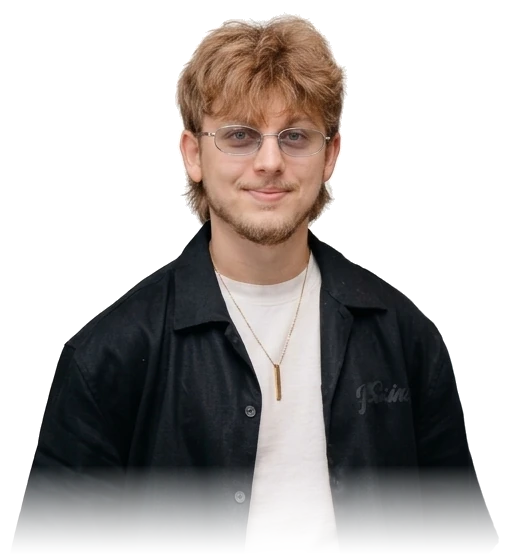
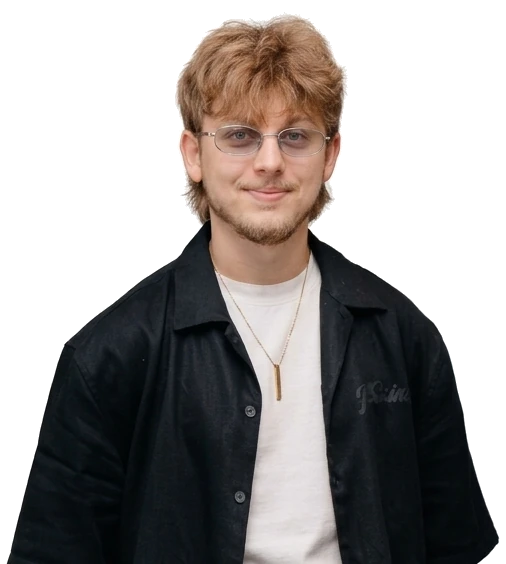
Світлий ленд: анімована крива, пунктир після $300K, заголовок у два рядки
Крива малює себе зліва направо, за нею по черзі спалахують точки $0, $100K,
$300K і $600K. Ділянка після $300K іде пунктиром — це вже не досягнуте, а
план вийти на $600K, — і сама точка $300K пульсує як узята вершина.

Витирання зроблено clip-path прямо на лініях. Першу версію я зібрав через
<mask> з анімованим прямокутником усередині — у Chrome маска не
перемальовується, коли її вміст анімують, і графік зникав повністю.

Саша більше не розчиняється внизу: кадр обрізаний рівно, як у макеті. Його
посунуто так, щоб зліва лишалось місце під точку $0, а справа — під $100K,
і щоб голова не заходила під заголовок. Нуль тепер підписаний «$0».

Заголовок знову у два рядки з жорстким переносом, як на оригінальному ленді.

diff --git a/public/pre-reg-form-d.html b/public/pre-reg-form-d.html
@@ -32,12 +32,12 @@
 
     <div class="hero-main">
       <p class="qual" data-p18n="qual">Премиальная программа<br>по масштабированию инфобизнесов</p>
-      <h1 class="d" data-fit-lines="3" data-fit-max="44" data-fit-min="22"><span data-p18n="h1a">Сделай свой запуск в 2027 – </span><span class="gold" data-p18n="h1b">рекордным</span> <span class="gold" data-p18n="h1b2">и подготовься</span><span data-p18n="h1c"> к новым реалиям рынка</span></h1>
+      <h1 class="d" data-fit-lines="2" data-fit-max="28" data-fit-min="14"><span data-p18n="h1a">Сделай свой запуск в 2027 – </span><span class="gold" data-p18n="h1b">рекордным</span><br><span class="gold" data-p18n="h1b2">и подготовься</span><span data-p18n="h1c"> к новым реалиям рынка</span></h1>
     </div>
 
-    <!-- Герой: бюст Саші зліва, крива зростання виручки від запуску до запуску — за ним.
-         Графік лежить шаром нижче фото, тому вся ліва, низька частина кривої ховається
-         за його плечима й грудьми, а підписи сум стоять правіше, уже на чистому полі. -->
+    <!-- Герой: Саша зліва, за ним крива зростання виручки від запуску до запуску.
+         До $300K лінія суцільна — це вже досягнуте, далі пунктир: план вийти на $600K.
+         Анімацію малювання й появу точок тримає preregd.css, скриптів тут немає. -->
     <div class="hero-pic" aria-hidden="true">
       <svg class="hero-chart" viewBox="0 0 1000 620" preserveAspectRatio="xMidYMax meet" xmlns="http://www.w3.org/2000/svg">
         <defs>
@@ -50,22 +50,24 @@
             <stop offset="1" stop-color="#0071E3" stop-opacity="0"/>
           </linearGradient>
         </defs>
-        <path d="M0 560C10.0 557.5 36.7 544.0 60 545C83.3 546.0 112.5 574.3 140 566C167.5 557.7 197.5 502.3 225 495C252.5 487.7 278.3 531.2 305 522C331.7 512.8 358.3 448.7 385 440C411.7 431.3 439.2 476.7 465 470C490.8 463.3 515.0 415.3 540 400C565.0 384.7 590.8 377.2 615 378C639.2 378.8 661.7 421.0 685 405C708.3 389.0 732.2 297.8 755 282C777.8 266.2 797.0 337.3 822 310C847.0 282.7 882.8 155.0 905 118C927.2 81.0 939.2 99.7 955 88C970.8 76.3 992.5 54.7 1000 48L1000 620L0 620Z" fill="url(#chartArea)"/>
-        <path d="M0 560C10.0 557.5 36.7 544.0 60 545C83.3 546.0 112.5 574.3 140 566C167.5 557.7 197.5 502.3 225 495C252.5 487.7 278.3 531.2 305 522C331.7 512.8 358.3 448.7 385 440C411.7 431.3 439.2 476.7 465 470C490.8 463.3 515.0 415.3 540 400C565.0 384.7 590.8 377.2 615 378C639.2 378.8 661.7 421.0 685 405C708.3 389.0 732.2 297.8 755 282C777.8 266.2 797.0 337.3 822 310C847.0 282.7 882.8 155.0 905 118C927.2 81.0 939.2 99.7 955 88C970.8 76.3 992.5 54.7 1000 48" fill="none" stroke="url(#chartLine)" stroke-width="5" stroke-linecap="round" stroke-linejoin="round"/>
+        <path class="ch-area" d="M0 578C8.3 575.0 28.3 558.7 50 560C71.7 561.3 101.7 592.3 130 586C158.3 579.7 190.0 528.0 220 522C250.0 516.0 280.0 558.3 310 550C340.0 541.7 369.2 480.0 400 472C430.8 464.0 466.7 508.7 495 502C523.3 495.3 545.0 449.8 570 432C595.0 414.2 623.3 397.0 645 395C666.7 393.0 680.8 438.3 700 420C719.2 401.7 739.2 303.0 760 285L760 620L0 620Z" fill="url(#chartArea)"/>
+        <path class="ch-done" d="M0 578C8.3 575.0 28.3 558.7 50 560C71.7 561.3 101.7 592.3 130 586C158.3 579.7 190.0 528.0 220 522C250.0 516.0 280.0 558.3 310 550C340.0 541.7 369.2 480.0 400 472C430.8 464.0 466.7 508.7 495 502C523.3 495.3 545.0 449.8 570 432C595.0 414.2 623.3 397.0 645 395C666.7 393.0 680.8 438.3 700 420C719.2 401.7 739.2 303.0 760 285" fill="none" stroke="url(#chartLine)" stroke-width="5" stroke-linecap="round" stroke-linejoin="round"/>
+        <path class="ch-plan" d="M760 285C780.8 267.0 800.8 339.8 825 312C849.2 284.2 883.3 155.3 905 118C926.7 80.7 939.2 99.7 955 88C970.8 76.3 992.5 54.7 1000 48" fill="none" stroke="url(#chartLine)" stroke-width="5" stroke-linecap="round" stroke-dasharray="16 18"/>
+        <circle class="ch-pulse" cx="760" cy="285" r="9" fill="#0071E3"/>
         <g fill="#FFFFFF" stroke="url(#chartLine)" stroke-width="5">
-          <circle cx="60" cy="545" r="9"/>
-          <circle cx="615" cy="378" r="9"/>
-          <circle cx="755" cy="282" r="9"/>
-          <circle cx="905" cy="118" r="12"/>
+          <circle class="ch-dot d0" cx="50" cy="560" r="9"/>
+          <circle class="ch-dot d1" cx="645" cy="395" r="9"/>
+          <circle class="ch-dot d2" cx="760" cy="285" r="9"/>
+          <circle class="ch-dot d3" cx="905" cy="118" r="12"/>
         </g>
         <g class="hero-chart-n" fill="#1D1D1F">
-          <text x="60" y="602" text-anchor="middle">0</text>
-          <text x="615" y="336" text-anchor="middle">$100K</text>
-          <text x="755" y="240" text-anchor="middle">$300K</text>
-          <text x="905" y="76" text-anchor="middle">$600K</text>
+          <text class="ch-n d0" x="50" y="606" text-anchor="middle">$0</text>
+          <text class="ch-n d1" x="645" y="353" text-anchor="middle">$100K</text>
+          <text class="ch-n d2" x="760" y="243" text-anchor="middle">$300K</text>
+          <text class="ch-n d3" x="905" y="76" text-anchor="middle">$600K</text>
         </g>
       </svg>
-      <img src="assets/img/sasha-hero.webp" alt="" width="506" height="557" decoding="async" fetchpriority="high">
+      <img src="assets/img/sasha-hero.webp" alt="" width="506" height="564" decoding="async" fetchpriority="high">
     </div>
 
     <section class="offer" aria-label="Бонус предзаписи">

diff --git a/public/pre-reg-form-d/ua.html b/public/pre-reg-form-d/ua.html
@@ -32,12 +32,12 @@
 
     <div class="hero-main">
       <p class="qual" data-p18n="qual">Преміальна програма<br>з масштабування інфобізнесів</p>
-      <h1 class="d" data-fit-lines="3" data-fit-max="44" data-fit-min="22"><span data-p18n="h1a">Зроби свій запуск у 2027 – </span><span class="gold" data-p18n="h1b">рекордним</span> <span class="gold" data-p18n="h1b2">і підготуйся</span><span data-p18n="h1c"> до нових реалій ринку</span></h1>
+      <h1 class="d" data-fit-lines="2" data-fit-max="28" data-fit-min="14"><span data-p18n="h1a">Зроби свій запуск у 2027 – </span><span class="gold" data-p18n="h1b">рекордним</span><br><span class="gold" data-p18n="h1b2">і підготуйся</span><span data-p18n="h1c"> до нових реалій ринку</span></h1>
     </div>
 
-    <!-- Герой: бюст Саші зліва, крива зростання виручки від запуску до запуску — за ним.
-         Графік лежить шаром нижче фото, тому вся ліва, низька частина кривої ховається
-         за його плечима й грудьми, а підписи сум стоять правіше, уже на чистому полі. -->
+    <!-- Герой: Саша зліва, за ним крива зростання виручки від запуску до запуску.
+         До $300K лінія суцільна — це вже досягнуте, далі пунктир: план вийти на $600K.
+         Анімацію малювання й появу точок тримає preregd.css, скриптів тут немає. -->
     <div class="hero-pic" aria-hidden="true">
       <svg class="hero-chart" viewBox="0 0 1000 620" preserveAspectRatio="xMidYMax meet" xmlns="http://www.w3.org/2000/svg">
         <defs>
@@ -50,22 +50,24 @@
             <stop offset="1" stop-color="#0071E3" stop-opacity="0"/>
           </linearGradient>
         </defs>
-        <path d="M0 560C10.0 557.5 36.7 544.0 60 545C83.3 546.0 112.5 574.3 140 566C167.5 557.7 197.5 502.3 225 495C252.5 487.7 278.3 531.2 305 522C331.7 512.8 358.3 448.7 385 440C411.7 431.3 439.2 476.7 465 470C490.8 463.3 515.0 415.3 540 400C565.0 384.7 590.8 377.2 615 378C639.2 378.8 661.7 421.0 685 405C708.3 389.0 732.2 297.8 755 282C777.8 266.2 797.0 337.3 822 310C847.0 282.7 882.8 155.0 905 118C927.2 81.0 939.2 99.7 955 88C970.8 76.3 992.5 54.7 1000 48L1000 620L0 620Z" fill="url(#chartArea)"/>
-        <path d="M0 560C10.0 557.5 36.7 544.0 60 545C83.3 546.0 112.5 574.3 140 566C167.5 557.7 197.5 502.3 225 495C252.5 487.7 278.3 531.2 305 522C331.7 512.8 358.3 448.7 385 440C411.7 431.3 439.2 476.7 465 470C490.8 463.3 515.0 415.3 540 400C565.0 384.7 590.8 377.2 615 378C639.2 378.8 661.7 421.0 685 405C708.3 389.0 732.2 297.8 755 282C777.8 266.2 797.0 337.3 822 310C847.0 282.7 882.8 155.0 905 118C927.2 81.0 939.2 99.7 955 88C970.8 76.3 992.5 54.7 1000 48" fill="none" stroke="url(#chartLine)" stroke-width="5" stroke-linecap="round" stroke-linejoin="round"/>
+        <path class="ch-area" d="M0 578C8.3 575.0 28.3 558.7 50 560C71.7 561.3 101.7 592.3 130 586C158.3 579.7 190.0 528.0 220 522C250.0 516.0 280.0 558.3 310 550C340.0 541.7 369.2 480.0 400 472C430.8 464.0 466.7 508.7 495 502C523.3 495.3 545.0 449.8 570 432C595.0 414.2 623.3 397.0 645 395C666.7 393.0 680.8 438.3 700 420C719.2 401.7 739.2 303.0 760 285L760 620L0 620Z" fill="url(#chartArea)"/>
+        <path class="ch-done" d="M0 578C8.3 575.0 28.3 558.7 50 560C71.7 561.3 101.7 592.3 130 586C158.3 579.7 190.0 528.0 220 522C250.0 516.0 280.0 558.3 310 550C340.0 541.7 369.2 480.0 400 472C430.8 464.0 466.7 508.7 495 502C523.3 495.3 545.0 449.8 570 432C595.0 414.2 623.3 397.0 645 395C666.7 393.0 680.8 438.3 700 420C719.2 401.7 739.2 303.0 760 285" fill="none" stroke="url(#chartLine)" stroke-width="5" stroke-linecap="round" stroke-linejoin="round"/>
+        <path class="ch-plan" d="M760 285C780.8 267.0 800.8 339.8 825 312C849.2 284.2 883.3 155.3 905 118C926.7 80.7 939.2 99.7 955 88C970.8 76.3 992.5 54.7 1000 48" fill="none" stroke="url(#chartLine)" stroke-width="5" stroke-linecap="round" stroke-dasharray="16 18"/>
+        <circle class="ch-pulse" cx="760" cy="285" r="9" fill="#0071E3"/>
         <g fill="#FFFFFF" stroke="url(#chartLine)" stroke-width="5">
-          <circle cx="60" cy="545" r="9"/>
-          <circle cx="615" cy="378" r="9"/>
-          <circle cx="755" cy="282" r="9"/>
-          <circle cx="905" cy="118" r="12"/>
+          <circle class="ch-dot d0" cx="50" cy="560" r="9"/>
+          <circle class="ch-dot d1" cx="645" cy="395" r="9"/>
+          <circle class="ch-dot d2" cx="760" cy="285" r="9"/>
+          <circle class="ch-dot d3" cx="905" cy="118" r="12"/>
         </g>
         <g class="hero-chart-n" fill="#1D1D1F">
-          <text x="60" y="602" text-anchor="middle">0</text>
-          <text x="615" y="336" text-anchor="middle">$100K</text>
-          <text x="755" y="240" text-anchor="middle">$300K</text>
-          <text x="905" y="76" text-anchor="middle">$600K</text>
+          <text class="ch-n d0" x="50" y="606" text-anchor="middle">$0</text>
+          <text class="ch-n d1" x="645" y="353" text-anchor="middle">$100K</text>
+          <text class="ch-n d2" x="760" y="243" text-anchor="middle">$300K</text>
+          <text class="ch-n d3" x="905" y="76" text-anchor="middle">$600K</text>
         </g>
       </svg>
-      <img src="assets/img/sasha-hero.webp" alt="" width="506" height="557" decoding="async" fetchpriority="high">
+      <img src="assets/img/sasha-hero.webp" alt="" width="506" height="564" decoding="async" fetchpriority="high">
     </div>
 
     <section class="offer" aria-label="Бонус передзапису">

diff --git a/public/preregd.css b/public/preregd.css
@@ -108,7 +108,34 @@ html.apple .prereg h1{
 html.apple .hero-pic{position:relative;margin:10px 0 0;aspect-ratio:1000/620}
 html.apple .hero-chart{position:absolute;inset:0;width:100%;height:100%}
 html.apple .hero-chart-n{font-family:var(--sf);font-weight:600;font-size:36px;letter-spacing:-0.02em}
-html.apple .hero-pic img{position:absolute;left:1%;bottom:0;width:52%;height:auto}
+html.apple .hero-pic img{position:absolute;left:9%;bottom:0;width:50%;height:auto}
+
+/* Крива малює себе зліва направо, за нею по черзі спалахують точки.
+   Витирання робимо clip-path прямо на лініях, а не маскою: Chrome не перемальовує
+   вміст <mask>, коли його анімують, і графік зникає зовсім. Скриптів тут немає —
+   інлайновий JS однаково зрізав би CSP. */
+@keyframes ch-draw{
+  from{clip-path:inset(-30px calc(100% + 30px) -30px -30px)}
+  to{clip-path:inset(-30px -30px -30px -30px)}
+}
+html.apple .hero-chart .ch-area,
+html.apple .hero-chart .ch-done{animation:ch-draw 1.5s cubic-bezier(.3,.7,.3,1) .2s both}
+/* ділянка після $300K — це план, тому йде пунктиром і домальовується останньою */
+html.apple .hero-chart .ch-plan{animation:ch-draw .55s linear 1.7s both}
+
+html.apple .hero-chart .ch-dot,html.apple .hero-chart .ch-n{opacity:0;
+  transform-box:fill-box;transform-origin:center;
+  animation:ch-pop .4s cubic-bezier(.22,1.2,.3,1) both}
+@keyframes ch-pop{from{opacity:0;transform:scale(.4)}to{opacity:1;transform:scale(1)}}
+/* затримки підігнані під те, коли лінія доходить до кожної точки */
+html.apple .hero-chart .d0{animation-delay:.35s}
+html.apple .hero-chart .d1{animation-delay:1.5s}
+html.apple .hero-chart .d2{animation-delay:1.72s}
+html.apple .hero-chart .d3{animation-delay:2.05s}
+/* $300K — вершина, яку вже взяли, тому вона пульсує */
+html.apple .hero-chart .ch-pulse{transform-box:fill-box;transform-origin:center;opacity:0;
+  animation:ch-pulse 2.2s ease-out 2.2s infinite}
+@keyframes ch-pulse{0%{opacity:.45;transform:scale(1)}70%,100%{opacity:0;transform:scale(2.8)}}
 
 /* ===== Бонус ===== */
 html.apple .offer{margin-top:12px;position:relative}
@@ -297,4 +324,8 @@ html.apple .zoom-fly .shot{box-shadow:0 20px 70px rgba(0,0,0,0.25)}
 }
 @media (prefers-reduced-motion:reduce){
   html.apple .btn,html.apple .rtg-in,html.apple .rtg-opt,html.apple .rtg-f .rtg-l{transition:none}
+  html.apple .hero-chart .ch-area,html.apple .hero-chart .ch-done,
+  html.apple .hero-chart .ch-plan,html.apple .hero-chart .ch-dot,
+  html.apple .hero-chart .ch-n,html.apple .hero-chart .ch-pulse{animation:none;clip-path:none}
+  html.apple .hero-chart .ch-dot,html.apple .hero-chart .ch-n{opacity:1}
 }
